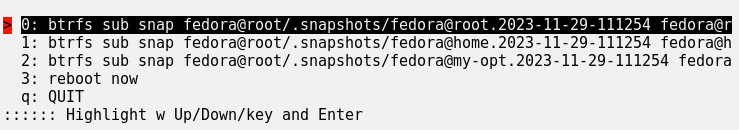
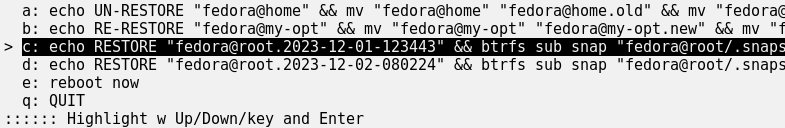
implemented UN-RESTORE and RE-RESTORE

diff --git a/README.md b/README.md
@@ -70,30 +70,33 @@ Next you'll see a screen like this:
 
 ![my-restore-p2.png](https://github.com/joedefen/jdef-fedora-tools/blob/main/images/my-restore-p2.png?raw=true)
 
-* unless you have a very wide screen, the commands will be truncated, but ensure you can see the snapshots names after `/.snapshots`; basically, you are
+* unless you have a very wide screen, the commands will be truncated, but ensure you can see the snapshots names after "RESTORE"; when restoring, you are
   * creating new writeable snapshots from your saved snapshots, first named {subvol}.old
   * and then {subvol} is renamed {subvol}.new (new is the one you wish to back out)
-  * and then {subvol}.old is renamed {subvol} so that the restored subvolume becomes master.
+  * and then {subvol}.old is renamed {subvol} so that the restored subvolume becomes current.
 
-* highlight and press enter the snapshots to be restored
-* when done with snapshot restorals, reboot the system
-* **important cleanup**: after the reboot, run some tests and, if happy with the back-out, then run `my-snaps` and remove and `.new` or `.old` subvolumes.
+* highlight and press enter the subvolumes to effect the given action:
+  * RESTORE promotes the snapshot to current
+  * UN-RESTORE demotes a restored snapshot to {subvol}.old and rename {subvol}.new as {subvol}
+  * RE-RESTORE undoes a UN-RESTORE by renaming {subvol} as {subvol}.new and {subvol}.old as {subvol}
+* **unless you see some UN-RESTORE actions list, there are no pending changes**
+* when you are done with setting up the snapshot restorals, reboot the system
 
-**--- Restore Special Cases ---**
+**------------- IMPORTANT NOTES -------------**
 
-**An update will not boot.**  If an update will not boot:
+**When a restore is tested and deemed satisfactory then clean up.**
+* To clean up, launch `my-snaps` and remove and `.new` or `.old` subvolumes.
+* **Warning**: Failing to cleanup will confuse the next `my-restore` and suggest undoing the successful restore.
+
+**When a restore is tested and deemed unsatisfactory:**
+* Launch `my-snaps` and adjust the restored snapshots as desired.
+* Then reboot, test, and iterate until you are done and then clean up (described immediately above).
+
+**An update or restore will not boot.**  If an update or restore will not boot:
 * boot the live installer.
 * install these tools per the instructions.
-* restore the appropriate snapshots using `my-restore` and reboot
+* use `my-restore` to return to a working system and reboot and eventually clean up again.
 
-**A back-out needs undone.**  If you regret doing a back-out, then manually:
-* `sudo -i` # become root in effect (take care)
-* `ls-blk -f` # to help identify the partition holding your system BTRFS
-* `mount {your-btrs-partition} /mnt`
-* `cd /mnt; ls`  # enter /mnt, and view the names of the subvolumes
-* for every `.new` entry, move it back into place; e.g., for a subvolume called `fedora@root`,
-  * `mv fedora@root fedora@root.old; mv fedora@root.new fedora@root`
-* `reboot now`
 
 ## Final Thoughts
 * `my-snaps` and `my-restore` support the most simple BTRFS snapshot strategy (for update protection and limited file recovery).  To guard against huge catastrophes, add complementary strategies such as these so you can quickly reinstall if needed:
